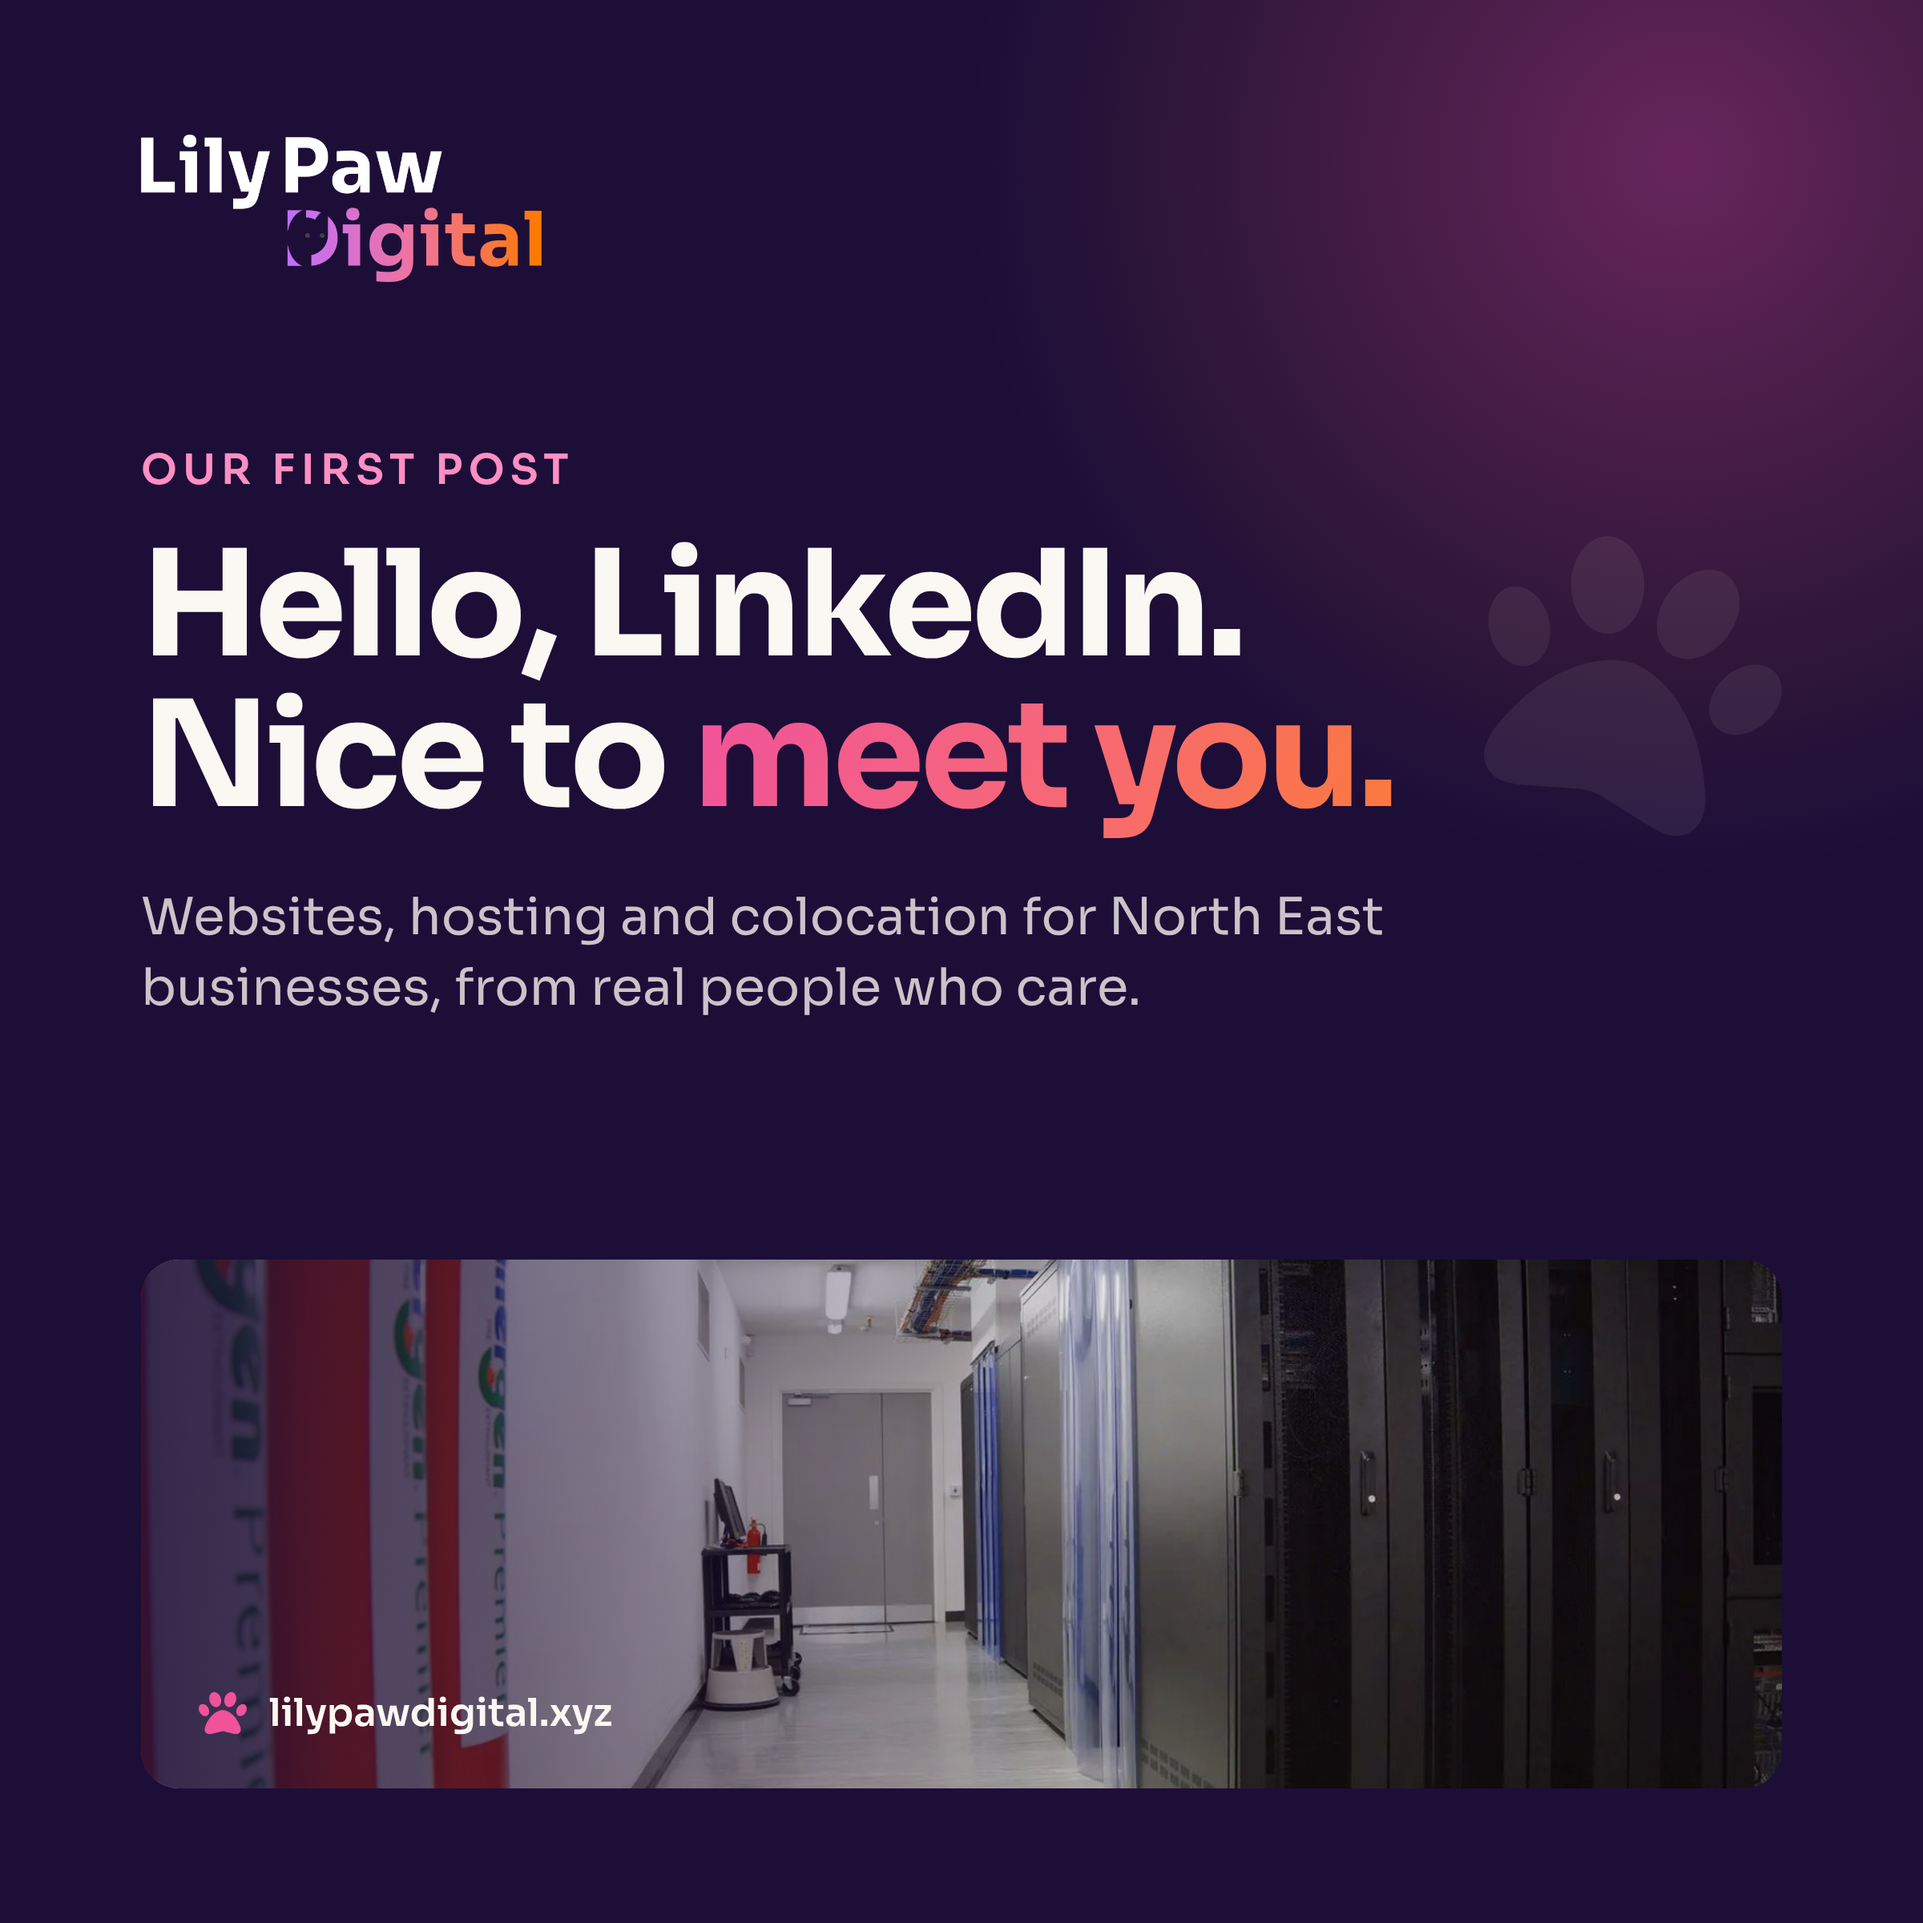
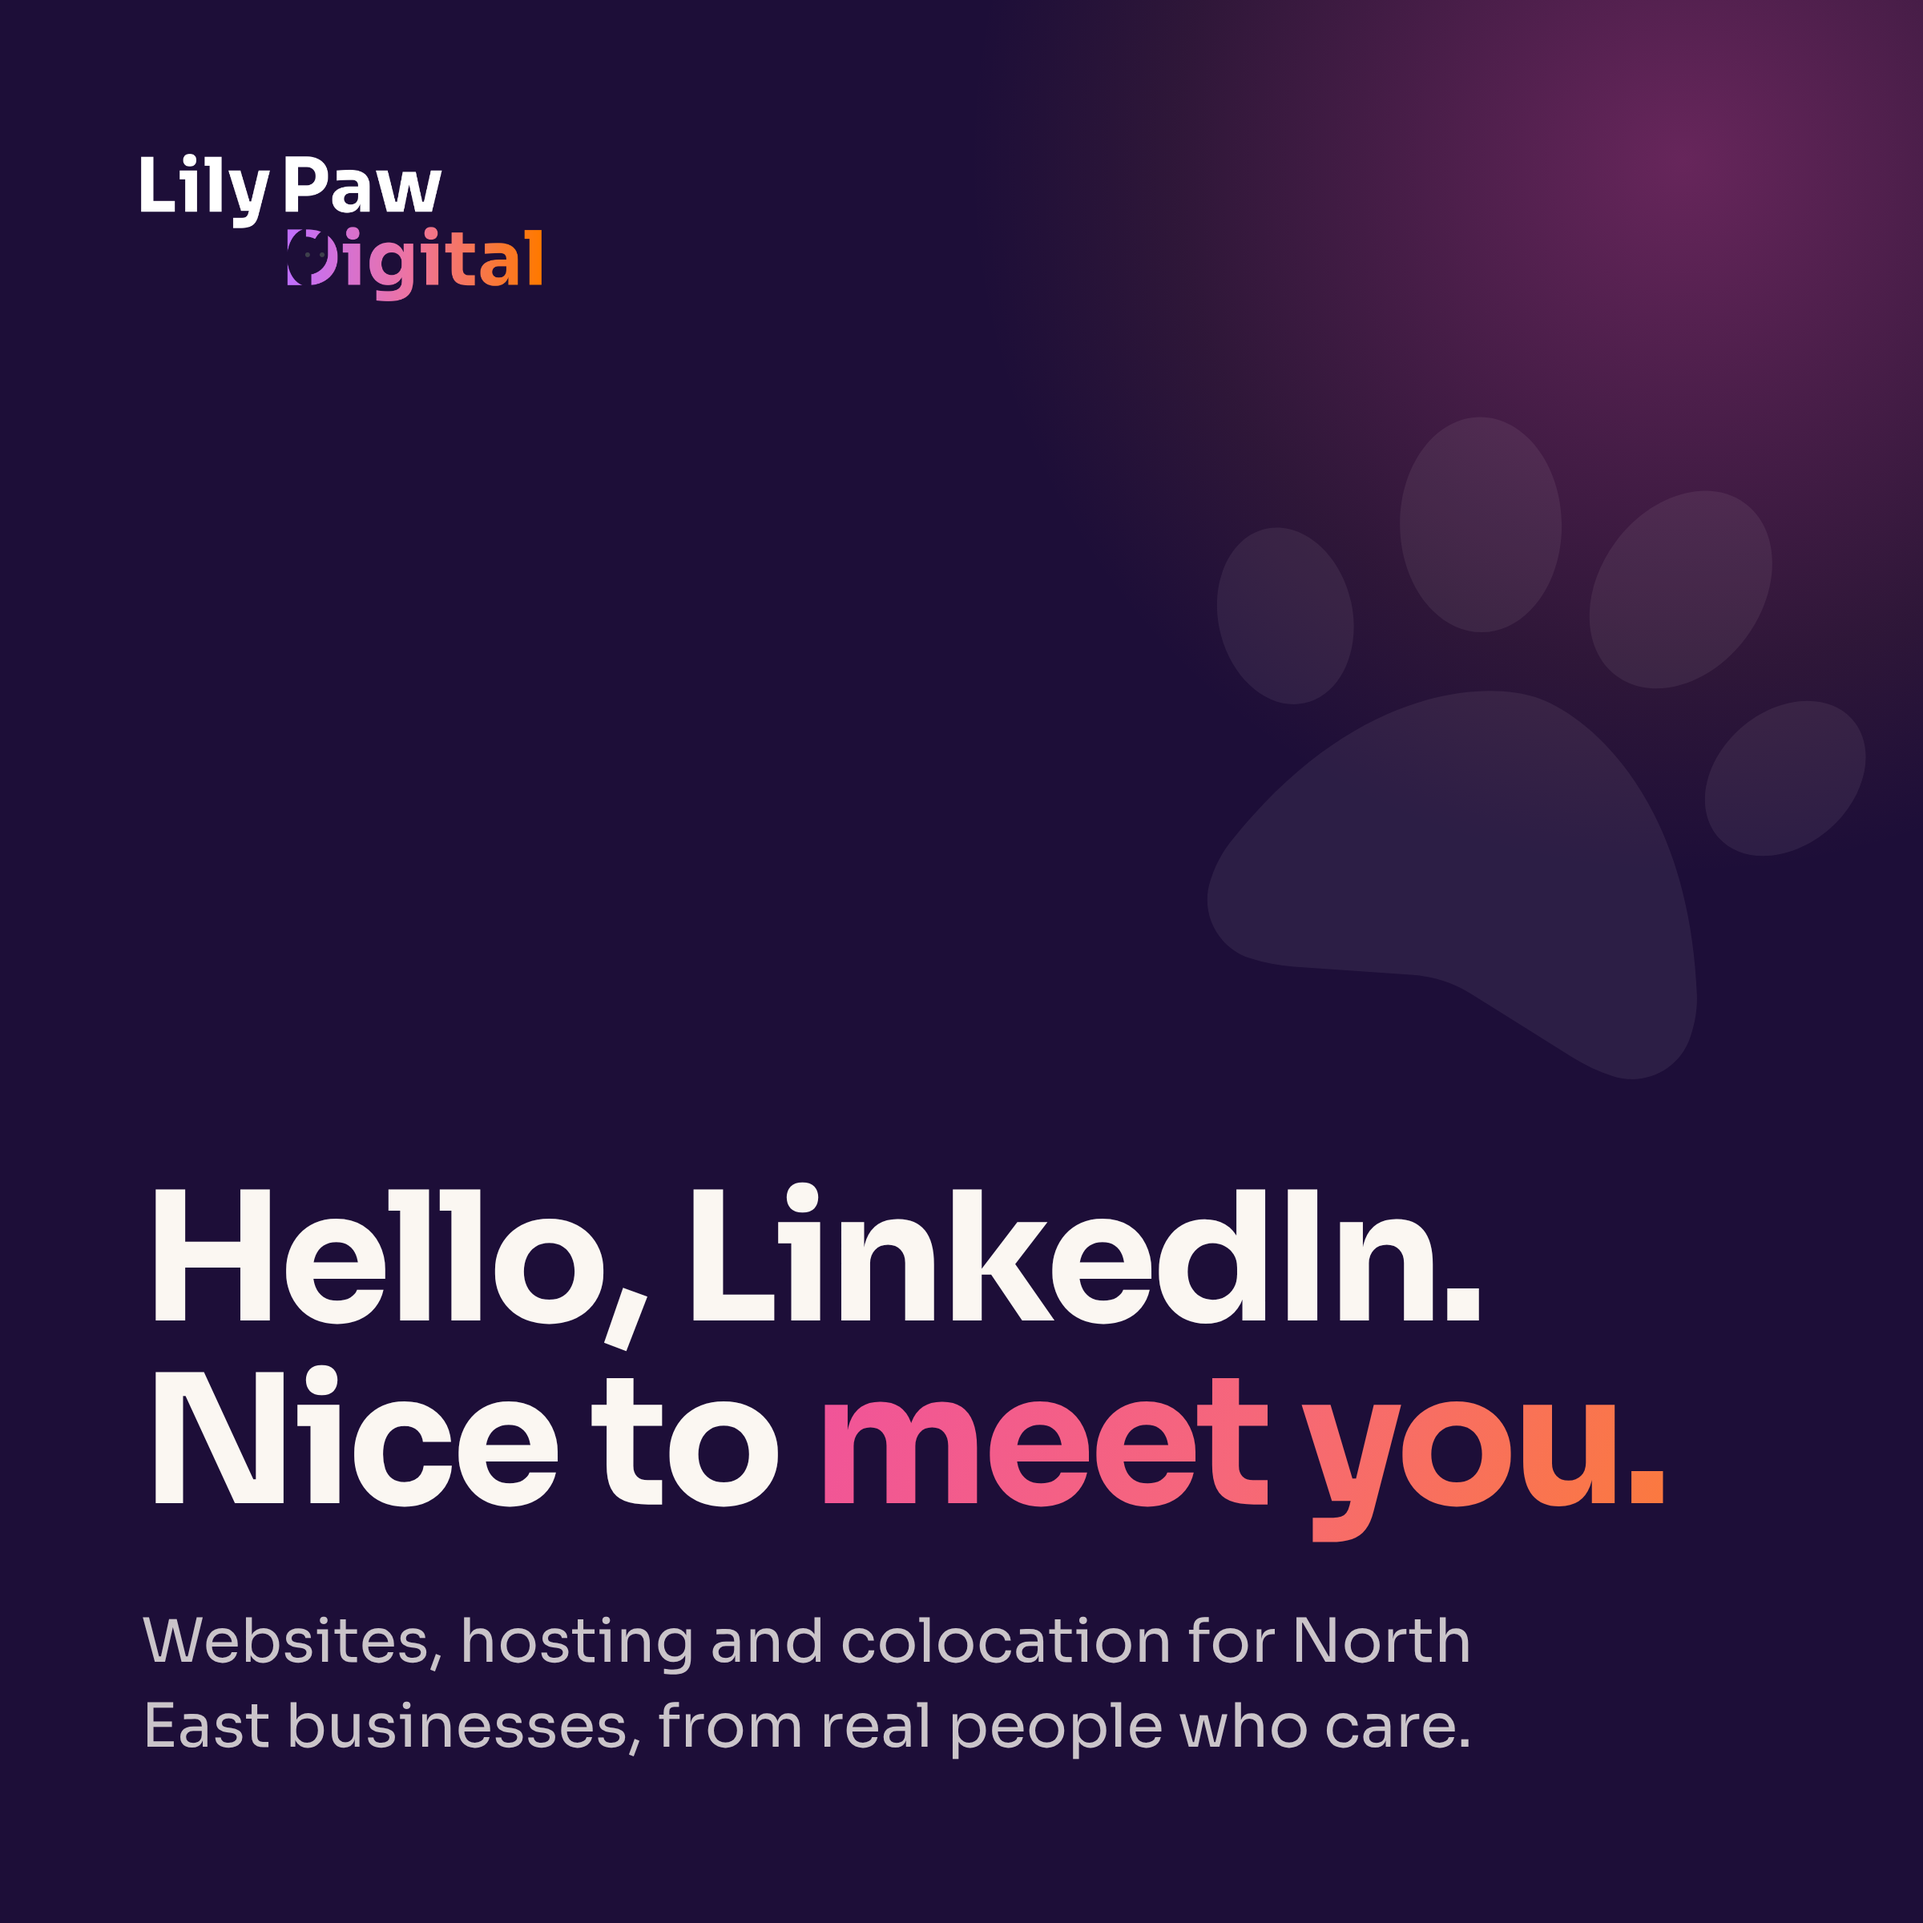
Simplify LinkedIn post image: drop kicker, web address and photo
Claude-Session: https://claude.ai/code/session_01HKWtXHK8vokcRtvXPhprQV

diff --git a/linkedin/post-image.html b/linkedin/post-image.html
@@ -3,12 +3,13 @@
 *{margin:0;box-sizing:border-box}
 body{width:1200px;height:1200px;background:#1d0e38;font-family:Sora;color:#fbf7f2;overflow:hidden;position:relative}
 .glow{position:absolute;width:900px;height:900px;right:-300px;top:-350px;border-radius:50%;background:radial-gradient(circle,rgba(240,82,156,.35),rgba(251,122,60,.08) 50%,transparent 70%)}
-.wrap{position:absolute;inset:0;padding:84px 88px}
-.logo{height:92px}
+.wrap{position:absolute;inset:0;padding:96px 88px;display:flex;flex-direction:column}
+.text{margin-top:auto}
+.logo{height:92px;width:auto;align-self:flex-start}
 .kicker{margin-top:96px;font-size:26px;font-weight:600;letter-spacing:.14em;text-transform:uppercase;color:#ff8fc2}
-h1{margin-top:22px;font-size:92px;line-height:1.02;font-weight:700;letter-spacing:-.03em}
+h1{font-size:112px;line-height:1.02;font-weight:700;letter-spacing:-.03em}
 h1 span{background:linear-gradient(115deg,#f0529c,#f6677a 50%,#fb7a3c);-webkit-background-clip:text;color:transparent}
-p{margin-top:30px;font-size:32px;line-height:1.4;color:rgba(251,247,242,.78);max-width:860px}
+p{margin-top:40px;font-size:38px;line-height:1.4;color:rgba(251,247,242,.78);max-width:860px}
 .photo{position:absolute;left:88px;right:88px;bottom:84px;height:330px;border-radius:24px;overflow:hidden;background:url(../lilypawdigital/assets/images/colocation/colocation-1.jpg) center 55%/cover}
 .photo:after{content:"";position:absolute;inset:0;background:linear-gradient(90deg,rgba(29,14,56,.85),rgba(29,14,56,.1) 60%)}
 .tag{position:absolute;left:36px;bottom:32px;z-index:2;font-size:24px;font-weight:600;display:flex;align-items:center;gap:14px}
@@ -16,12 +17,10 @@ p{margin-top:30px;font-size:32px;line-height:1.4;color:rgba(251,247,242,.78);max
 .paw{position:absolute;color:rgba(251,247,242,.07)}
 </style></head><body>
 <div class="glow"></div>
-<svg class="paw" style="width:190px;right:90px;top:330px;transform:rotate(18deg)" viewBox="0 0 512 512"><path fill="currentColor" d="M234.5 92.9c14.3 42.9-.3 86.2-32.6 96.8s-70.1-15.6-84.4-58.5 .3-86.2 32.6-96.8 70.1 15.6 84.4 58.5zM100.4 198.6c18.9 32.4 14.3 70.1-10.2 84.1s-59.7-.9-78.5-33.3-14.3-70.1 10.2-84.1 59.7 .9 78.5 33.3zM69.2 401.2C121.6 259.9 214.7 224 256 224s134.4 35.9 186.8 177.2c3.6 9.7 5.2 20.1 5.2 30.5l0 1.6c0 25.8-20.9 46.7-46.7 46.7-11.5 0-22.9-1.4-34-4.2l-88-22c-15.3-3.8-31.3-3.8-46.6 0l-88 22c-11.1 2.8-22.5 4.2-34 4.2-25.8 0-46.7-20.9-46.7-46.7l0-1.6c0-10.4 1.6-20.8 5.2-30.5zM421.8 282.7c-24.5-14-29.1-51.7-10.2-84.1s54-47.3 78.5-33.3 29.1 51.7 10.2 84.1-54 47.3-78.5 33.3zM310.1 189.7c-32.3-10.6-46.9-53.9-32.6-96.8s52.1-69.1 84.4-58.5 46.9 53.9 32.6 96.8-52.1 69.1-84.4 58.5z"/></svg>
+<svg class="paw" style="width:420px;right:40px;top:250px;transform:rotate(18deg)" viewBox="0 0 512 512"><path fill="currentColor" d="M234.5 92.9c14.3 42.9-.3 86.2-32.6 96.8s-70.1-15.6-84.4-58.5 .3-86.2 32.6-96.8 70.1 15.6 84.4 58.5zM100.4 198.6c18.9 32.4 14.3 70.1-10.2 84.1s-59.7-.9-78.5-33.3-14.3-70.1 10.2-84.1 59.7 .9 78.5 33.3zM69.2 401.2C121.6 259.9 214.7 224 256 224s134.4 35.9 186.8 177.2c3.6 9.7 5.2 20.1 5.2 30.5l0 1.6c0 25.8-20.9 46.7-46.7 46.7-11.5 0-22.9-1.4-34-4.2l-88-22c-15.3-3.8-31.3-3.8-46.6 0l-88 22c-11.1 2.8-22.5 4.2-34 4.2-25.8 0-46.7-20.9-46.7-46.7l0-1.6c0-10.4 1.6-20.8 5.2-30.5zM421.8 282.7c-24.5-14-29.1-51.7-10.2-84.1s54-47.3 78.5-33.3 29.1 51.7 10.2 84.1-54 47.3-78.5 33.3zM310.1 189.7c-32.3-10.6-46.9-53.9-32.6-96.8s52.1-69.1 84.4-58.5 46.9 53.9 32.6 96.8-52.1 69.1-84.4 58.5z"/></svg>
 <div class="wrap">
 <img class="logo" src="../lilypawdigital/assets/images/logo-stacked.png">
-<div class="kicker">Our first post</div>
-<h1>Hello, LinkedIn.<br>Nice to <span>meet you.</span></h1>
-<p>Websites, hosting and colocation for North East businesses, from real people who care.</p>
+<div class="text"><h1>Hello, LinkedIn.<br>Nice to <span>meet you.</span></h1>
+<p>Websites, hosting and colocation for North East businesses, from real people who care.</p></div>
 </div>
-<div class="photo"><div class="tag"><svg viewBox="0 0 512 512"><path fill="currentColor" d="M234.5 92.9c14.3 42.9-.3 86.2-32.6 96.8s-70.1-15.6-84.4-58.5 .3-86.2 32.6-96.8 70.1 15.6 84.4 58.5zM100.4 198.6c18.9 32.4 14.3 70.1-10.2 84.1s-59.7-.9-78.5-33.3-14.3-70.1 10.2-84.1 59.7 .9 78.5 33.3zM69.2 401.2C121.6 259.9 214.7 224 256 224s134.4 35.9 186.8 177.2c3.6 9.7 5.2 20.1 5.2 30.5l0 1.6c0 25.8-20.9 46.7-46.7 46.7-11.5 0-22.9-1.4-34-4.2l-88-22c-15.3-3.8-31.3-3.8-46.6 0l-88 22c-11.1 2.8-22.5 4.2-34 4.2-25.8 0-46.7-20.9-46.7-46.7l0-1.6c0-10.4 1.6-20.8 5.2-30.5zM421.8 282.7c-24.5-14-29.1-51.7-10.2-84.1s54-47.3 78.5-33.3 29.1 51.7 10.2 84.1-54 47.3-78.5 33.3zM310.1 189.7c-32.3-10.6-46.9-53.9-32.6-96.8s52.1-69.1 84.4-58.5 46.9 53.9 32.6 96.8-52.1 69.1-84.4 58.5z"/></svg>lilypawdigital.xyz</div></div>
 </body></html>
